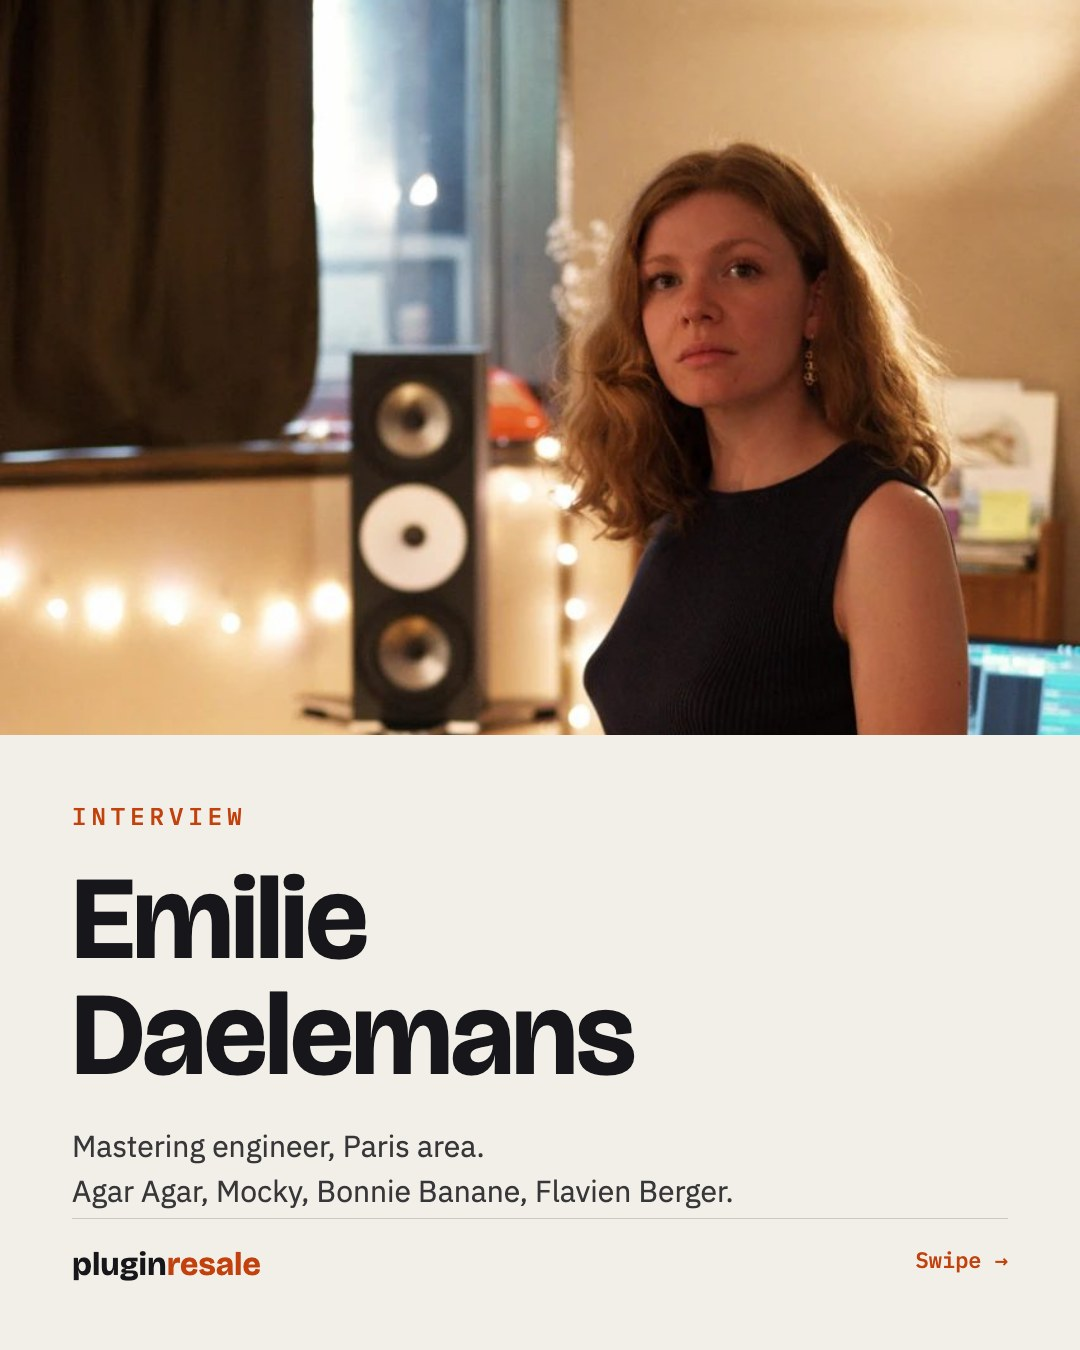
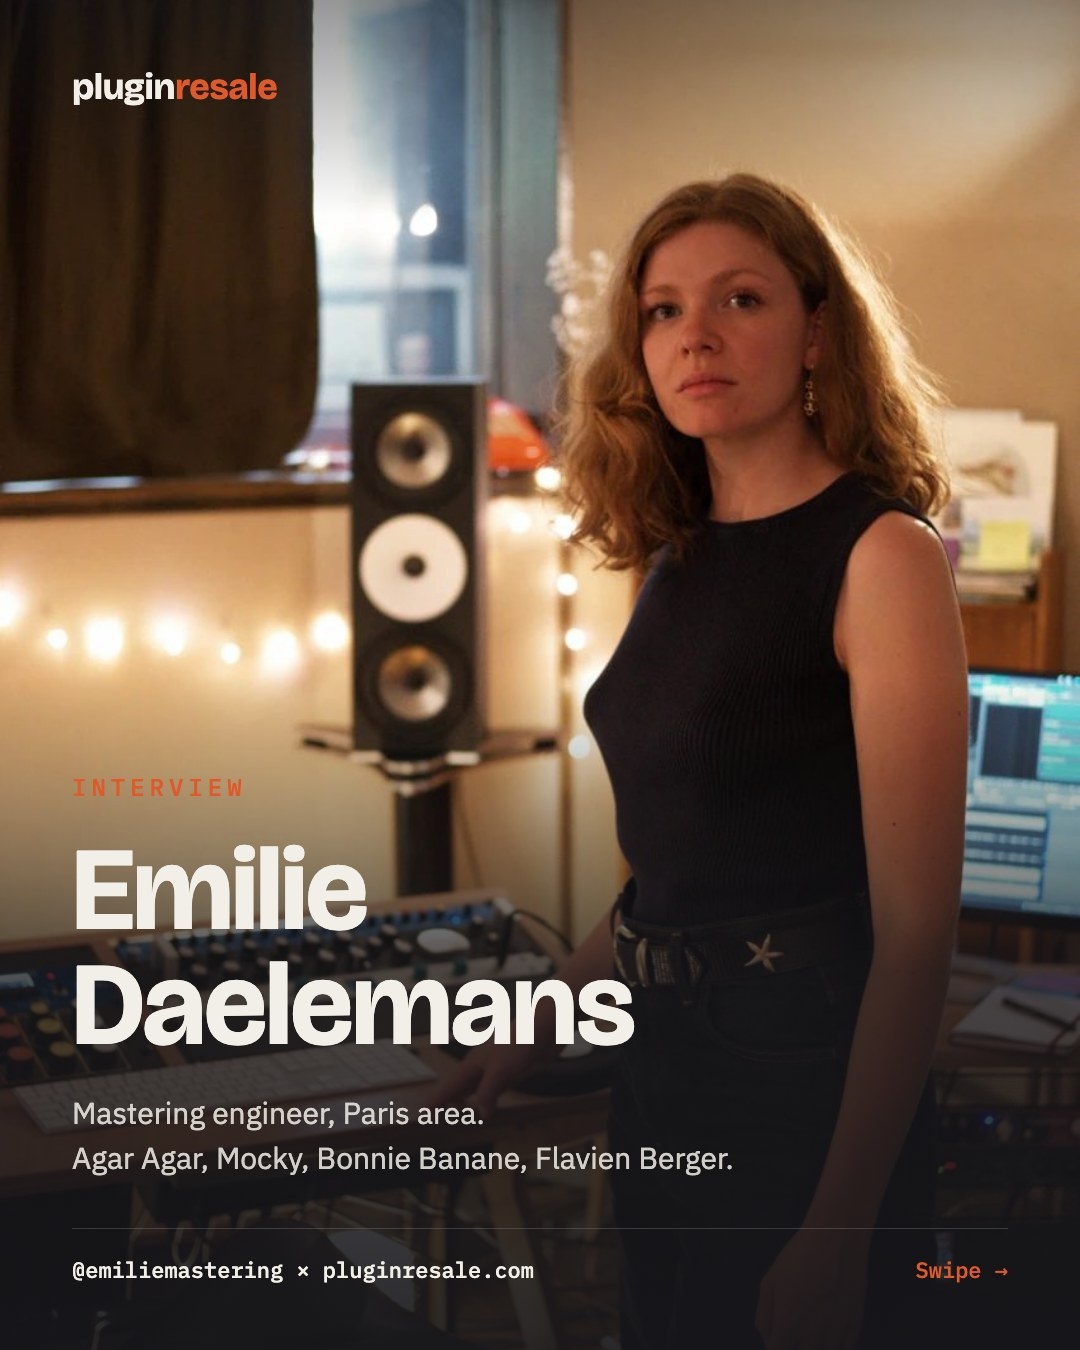
Emilie Daelemans carousel: full-bleed cover (new cover option)

diff --git a/.claude/skills/interview-plugin-resale/scripts/carousel.py b/.claude/skills/interview-plugin-resale/scripts/carousel.py
@@ -8,7 +8,7 @@
 # (printed at the end) to look at all slides at once.
 #
 # Slide types (each slide is an object with "type"):
-#   cover : photo, name ("First<br>Last"), subtitle, [position]
+#   cover : photo, name ("First<br>Last"), subtitle, [position], [full] (true = photo full bleed, text over it at the bottom)
 #   quote : theme ("light"|"dark"), kicker, quote, sub, [size]
 #   photo : photo, kicker, quote, sub, [position], [size]  (photo full bleed, text at the bottom)
 #   list  : theme, kicker, items: [{title, tag, text}]  (2 to 4 items)
@@ -93,6 +93,14 @@ def bg(s):
 
 def render(i, s):
     t = s["type"]
+    if t == "cover" and s.get("full"):
+        pos = s.get("position", "center 20%")
+        return "dark", f'''<div class="photo" style="background-image:url('file://{photo_dir}/{s["photo"]}');background-position:{pos}"></div>
+<div style="position:absolute;inset:0;z-index:2;background:linear-gradient(to bottom,rgba(23,23,27,.45) 0%,rgba(23,23,27,0) 16%,rgba(23,23,27,0) 50%,rgba(23,23,27,.75) 72%,rgba(23,23,27,.92) 100%)"></div>
+{LOGO}<div style="position:absolute;left:72px;right:72px;bottom:170px;z-index:3"><div class="kick">{esc(s.get("kicker", "Interview"))}</div>
+<h1 style="font-size:{s.get("size", 118)}px;line-height:.98">{esc(s["name"])}</h1>
+<p class="sub" style="margin-top:26px;font-size:30px">{esc(s["subtitle"])}</p></div>
+<div class="foot" style="opacity:1"><span>{h.escape(handle)} × <b>pluginresale.com</b></span><span style="color:#E0592A">Swipe →</span></div>'''
     if t == "cover":
         pos = s.get("position", "center 38%")
         return "light", f'''<div style="position:absolute;top:0;left:0;right:0;height:735px;background:url('file://{photo_dir}/{s["photo"]}') {pos}/cover"></div>
